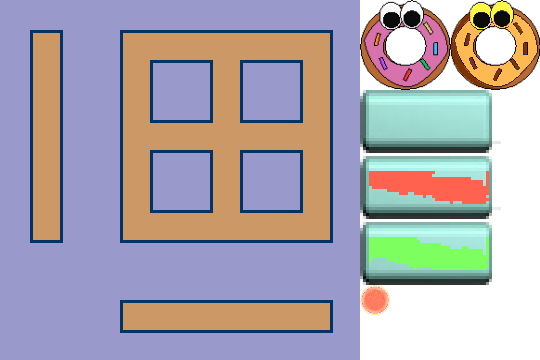
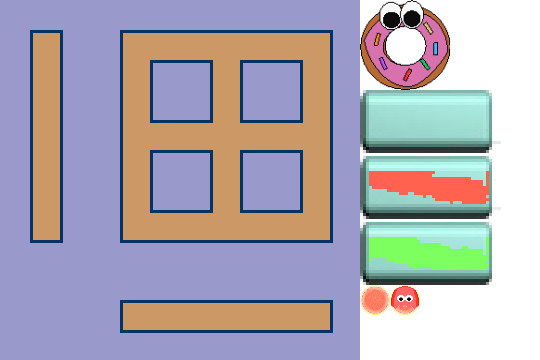
Added ghosts

Changed region(s): [[0.8296, 0.0, 1.0, 0.275], [0.7111, 0.7944, 0.8, 0.8861]]

diff --git a/sfml_sneaky/sneakyworld.cpp b/sfml_sneaky/sneakyworld.cpp
@@ -126,15 +126,21 @@ private:
 
 };
 
-class Ghost : public SpriteNode {
-
+class Ghost : public SpriteNode, public Physicalb2Fixture {
+public:
+	Ghost(const sf::Texture & tex, PhysicsWorld &world, const MeterVector &position) :
+		SpriteNode(tex,{120*3+30,285,30,30}, HEAD_SIZE/(30.f)),
+		Physicalb2Fixture(body_t::Ghost){
+		assign_body(world.add_static_circle(position, HEAD_RADIUS_M),this);
+		setPosition(to_screen(position));
+	}
 };
 
 class Pill : public SpriteNode, public Physicalb2Fixture {
 public:
 	Pill(const sf::Texture & tex, PhysicsWorld &world, const MeterVector &position) :
 		SpriteNode(tex,{120*3,285,30,30}, HEAD_SIZE/(30.f)),
-		Physicalb2Fixture({body_t::Pill}){
+		Physicalb2Fixture(body_t::Pill){
 		assign_body(world.add_static_circle(position, HEAD_RADIUS_M),this);
 		setPosition(to_screen(position));
 	}
@@ -206,6 +212,7 @@ public:
 		m_arena->attach(m_head = new Head(*context.texture));
 		// Add the pills and move the head based on the flare map data
 		size_t pill_count = 0;
+		size_t ghost_count = 0;
 		Wang2EdgeField field(ARENA_WIDTH_TILES, ARENA_HEIGHT_TILES, fm.layer().at("Level1_o"));
 		field.visit([&](const Tile &t){
 			if (t.tile == 16) // head
@@ -214,9 +221,14 @@ public:
 				auto p = new Pill(*context.texture,m_world,to_real_center(t.x,t.y));
 				m_scene_graph.attach(p);
 				pill_count++;
+			} else if (t.tile == 18) { // ghost
+				auto g = new Ghost(*context.texture,m_world,to_real_center(t.x,t.y));
+				m_scene_graph.attach(g);
+				ghost_count++;
 			}
 		});
 		check_that(m_head->has_body()); // the map must specify a place for the body
+		check_that(ghost_count > 0);
 		m_scene_graph.attach(m_hud = new Hud(m_view,pill_count));
 		check_that(m_wall_hit_sound.loadFromFile("media/sneaky/wall.wav"));
 		m_view.setCenter(m_head->getPosition());
@@ -228,12 +240,14 @@ public:
 			// we hit something that is not a wall;
 			// it must be a pill
 			// TODO 050 handle collisions with ghosts
-			m_hud->eat_pill();
-			auto p = reinterpret_cast<Pill *> (b);
-			m_commands.schedule([=](Milliseconds t){
-				p->destroy_body();
-				m_scene_graph.detach(p);
-			});
+			if (b->type == body_t::Pill) {
+				m_hud->eat_pill();
+				auto p = static_cast<Pill *> (b);
+				m_commands.schedule([=](Milliseconds t){
+					p->destroy_body();
+					m_scene_graph.detach(p);
+				});
+			}
 		}
 		m_sound.setBuffer(m_wall_hit_sound);m_sound.play();
 	}

diff --git a/sfml_sneaky/physics.cpp b/sfml_sneaky/physics.cpp
@@ -151,13 +151,13 @@ void PhysicsWorld::debug_draw(sf::RenderTarget &t, float pixels_per_meter,
 	m_world.DrawDebugData();
 }
 
-void Physicalb2Body::assign_body(b2Body * b,void * data) {
+void Physicalb2Body::assign_body(b2Body * b,Body * data) {
 	check_that(m_body == nullptr);
 	m_body = b;
 	m_body->GetFixtureList()->SetUserData(data);
 }
 
-void Physicalb2Fixture::assign_body(b2Fixture * b, void * data) {
+void Physicalb2Fixture::assign_body(b2Fixture * b, Body * data) {
 	check_that(m_body == nullptr);
 	m_body = b;
 	m_body->SetUserData(data);
@@ -177,8 +177,8 @@ void PhysicsWorldWithBodies::handle_collision(b2Contact * contact) {
 	Body * b1 = nullptr;
 	Body * b2 = nullptr;
 	if (a && b) {
-		b1 = reinterpret_cast<Body *>(a);
-		b2 = reinterpret_cast<Body *>(b);
+		b1 = static_cast<Body *>(a);
+		b2 = static_cast<Body *>(b);
 		if (b1->type > b2->type) {
 			Body * t = b1;
 			b1 = b2;

diff --git a/sfml_sneaky/physics.h b/sfml_sneaky/physics.h
@@ -27,7 +27,6 @@ template <class bodyT>
 class PhysicalBody : public Body {
 	protected:
 		bodyT * m_body = nullptr;
-		virtual void assign_body(bodyT * b, void * data) = 0;
 	public:
 		PhysicalBody<bodyT>(body_t t) : Body{t} {};
 		bool has_body() const {return m_body != nullptr;}
@@ -36,14 +35,14 @@ class PhysicalBody : public Body {
 
 class Physicalb2Body : public PhysicalBody<b2Body> {
 	protected:
-		void assign_body(b2Body * b, void * data) override;
+		void assign_body(b2Body * b, Body * data);
 	public:
 		Physicalb2Body(body_t t) : PhysicalBody<b2Body>{t} {}
 };
 
 class Physicalb2Fixture : public PhysicalBody<b2Fixture> {
 	protected:
-		void assign_body(b2Fixture * b, void * data) override;
+		void assign_body(b2Fixture * b, Body * data);
 	public:
 		Physicalb2Fixture(body_t t) : PhysicalBody<b2Fixture>(t) {}
 		void destroy_body();
